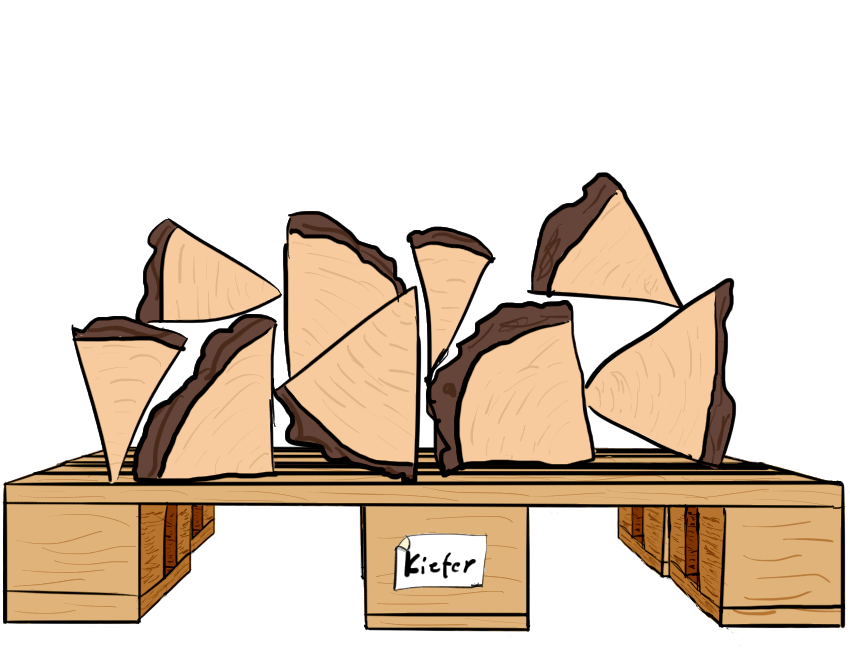
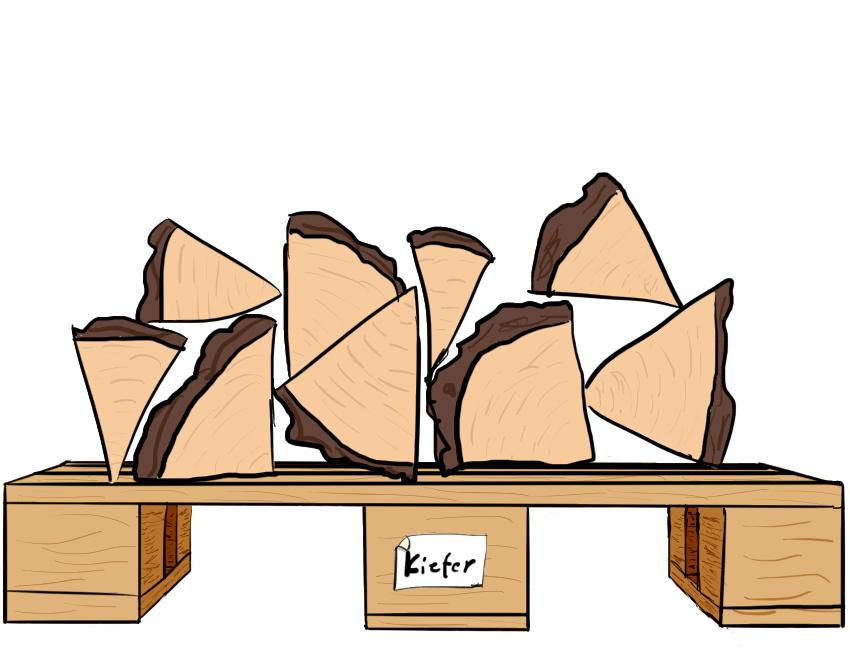
All ui + it starts of with a empty stuff

diff --git a/src/IconDnD.java b/src/IconDnD.java
@@ -1,0 +1,100 @@
+import javax.swing.GroupLayout;
+import javax.swing.ImageIcon;
+import javax.swing.JButton;
+import javax.swing.JComponent;
+import javax.swing.JFrame;
+import javax.swing.JLabel;
+import javax.swing.TransferHandler;
+import java.awt.EventQueue;
+import java.awt.event.MouseAdapter;
+import java.awt.event.MouseEvent;
+
+public class IconDnD extends JFrame {
+
+    public IconDnD() {
+
+        initUI();
+    }
+
+    private void initUI() {
+
+        var icon1 = new ImageIcon("src/resources/sad.png");
+        var icon2 = new ImageIcon("src/resources/plain.png");
+        var icon3 = new ImageIcon("src/resources/smile.png");
+
+        var label1 = new JLabel(icon1, JLabel.CENTER);
+        var label2 = new JLabel(icon2, JLabel.CENTER);
+        var label3 = new JLabel(icon3, JLabel.CENTER);
+
+        var listener = new DragMouseAdapter();
+        label1.addMouseListener(listener);
+        label2.addMouseListener(listener);
+        label3.addMouseListener(listener);
+
+        var button = new JButton(icon2);
+        button.setFocusable(false);
+
+        label1.setTransferHandler(new TransferHandler("icon"));
+        label2.setTransferHandler(new TransferHandler("icon"));
+        label3.setTransferHandler(new TransferHandler("icon"));
+        button.setTransferHandler(new TransferHandler("icon"));
+
+        createLayout(label1, label2, label3, button);
+
+        setTitle("Icon Drag & Drop");
+        setDefaultCloseOperation(JFrame.EXIT_ON_CLOSE);
+        setLocationRelativeTo(null);
+    }
+
+    private class DragMouseAdapter extends MouseAdapter {
+
+        public void mousePressed(MouseEvent e) {
+
+            var c = (JComponent) e.getSource();
+            var handler = c.getTransferHandler();
+            handler.exportAsDrag(c, e, TransferHandler.COPY);
+        }
+    }
+
+    private void createLayout(JComponent... arg) {
+
+        var pane = getContentPane();
+        var gl = new GroupLayout(pane);
+        pane.setLayout(gl);
+
+        gl.setAutoCreateContainerGaps(true);
+        gl.setAutoCreateGaps(true);
+
+        gl.setHorizontalGroup(gl.createParallelGroup(GroupLayout.Alignment.CENTER)
+                .addGroup(gl.createSequentialGroup()
+                        .addComponent(arg[0])
+                        .addGap(30)
+                        .addComponent(arg[1])
+                        .addGap(30)
+                        .addComponent(arg[2])
+                )
+                .addComponent(arg[3], GroupLayout.DEFAULT_SIZE,
+                        GroupLayout.DEFAULT_SIZE, Integer.MAX_VALUE)
+        );
+
+        gl.setVerticalGroup(gl.createSequentialGroup()
+                .addGroup(gl.createParallelGroup()
+                        .addComponent(arg[0])
+                        .addComponent(arg[1])
+                        .addComponent(arg[2]))
+                .addGap(30)
+                .addComponent(arg[3])
+        );
+
+        pack();
+    }
+
+    public static void main(String[] args) {
+
+        EventQueue.invokeLater(() -> {
+
+            var ex = new IconDnD();
+            ex.setVisible(true);
+        });
+    }
+}

diff --git a/src/backend/produkt.java b/src/backend/produkt.java
@@ -1,10 +1,25 @@
 package backend;
 
+import java.net.URL;
+
 public class produkt {
     private produkttyp type;
     private produkttyp art;
     private produkttyp bes;
+    private URL path;
+
     public produkt(produkttyp typ,produkttyp e1,produkttyp e2){
+       if (typ==null) {
+           type = null;
+           art = null;
+           bes = null;
+           path = getClass().getResource("leer.png");
+
+       } else {
+           set_produkt(typ,e1,e2);
+       }
+    }
+    public void set_produkt(produkttyp typ,produkttyp e1,produkttyp e2) {
         try {
             switch (typ) {
                 case Papier:
@@ -15,6 +30,7 @@ public class produkt {
                     } else {
                         art = e1;
                         bes = e2;
+                        path = getClass().getResource("Papier/"+art.toString()+"_"+bes.toString()+".png");
                     }
                     type = produkttyp.Papier;
                     break;
@@ -26,6 +42,7 @@ public class produkt {
                     } else {
                         art = e1;
                         bes = e2;
+                        path = getClass().getResource("Papier/"+art.toString()+"_"+bes.toString()+".png");
                     }
                     type = produkttyp.Holz;
                     break;
@@ -37,6 +54,7 @@ public class produkt {
                     } else {
                         art = e1;
                         bes = e2;
+                        path = getClass().getResource("Papier/"+art.toString()+"_"+bes.toString()+".png");
                     }
                     type = produkttyp.Stein;
                     break;
@@ -44,13 +62,12 @@ public class produkt {
                     throw new WrongTypeException("Eigenschaft");
             }
         } catch (WrongTypeException wt) {
-            System.out.println("Die Definition des Produktes hatte die falsche "+wt.art_f);
+            System.err.println("Die Definition des Produktes hatte die falsche "+wt.art_f);
             art = null;
             type = null;
             bes = null;
         }
     }
-
 
     private static class WrongTypeException extends Exception{
         String art_f;
@@ -60,7 +77,9 @@ public class produkt {
         }
     }
 
-
+    public URL getPath() {
+        return path;
+    }
     public produkttyp getArt() {
         return art;
     }

diff --git a/src/regal.java b/src/regal.java
@@ -2,10 +2,41 @@ import javax.swing.*;
 import java.awt.*;
 
 public class regal extends JPanel {
+    JLabel paletten[];
+
     regal () {
         setSize(700,800);
         setOpaque(false);
         setLocation(440,30);
+        this.setLayout(null);
+        paletten = new  JLabel[10];
+        int i =0;
+        for (JLabel label:paletten){
+            ImageIcon icon = createImageIcon("leer.png");
+            icon.setImage(icon.getImage().getScaledInstance(193,140,Image.SCALE_DEFAULT));
+            label = new JLabel(icon);
+            paletten[i]=label;
+            int x;
+            if (i<5) {
+                x =100;
+            } else {
+                x=420;
+            }
+            int y = -30+(i%5)*170;
+            paletten[i].setBounds(x,y,183,140); //calculates position so it calculates everythin
+            this.add(paletten[i]);
+            i++;
+        }
+
+        ImageIcon icon2 = createImageIcon("Stein/Granit_leicht.png");
+        icon2.setImage(icon2.getImage().getScaledInstance(193,140,Image.SCALE_DEFAULT));
+        JLabel test2 =new JLabel(icon2);
+        test2.setBounds(paletten[6].getBounds());
+        this.remove(paletten[6]);
+        this.validate();
+        this.repaint();
+        paletten[6] = test2;
+        this.add(test2);
 
     }
 
@@ -15,8 +46,6 @@ public class regal extends JPanel {
         img.setImage(img.getImage().getScaledInstance(700,800,Image.SCALE_DEFAULT));
         g.drawImage(img.getImage(),0,0,null);
     }
-
-
     protected ImageIcon createImageIcon(String path) {
         java.net.URL imgURL = getClass().getResource(path);
         if (imgURL !=null) {

diff --git a/src/GUI.java b/src/GUI.java
@@ -4,7 +4,8 @@ import java.net.URL;
 import java.util.Objects;
 
 public class GUI extends JFrame {
-    JLabel[] auftrage;
+    JPanel auftrag_menu;
+    JPanel menu;
     regal main;
     ImageIcon background;
     Dimension full_frame = new Dimension(1400,900);
@@ -16,6 +17,16 @@ public class GUI extends JFrame {
         JLabel backgdrop = new JLabel(background);
         this.setContentPane(backgdrop);
 
+        auftrag_menu = new JPanel();
+        auftrag_menu.setBackground(Color.RED);
+        auftrag_menu.setSize(400,500);
+        auftrag_menu.setLocation(13,330);
+
+        menu = new JPanel();
+        menu.setSize(150,800);
+        menu.setLocation(1165,28);
+        this.add(menu);
+        this.add(auftrag_menu);
         this.add(main);
         this.pack();
         this.setSize(full_frame);
